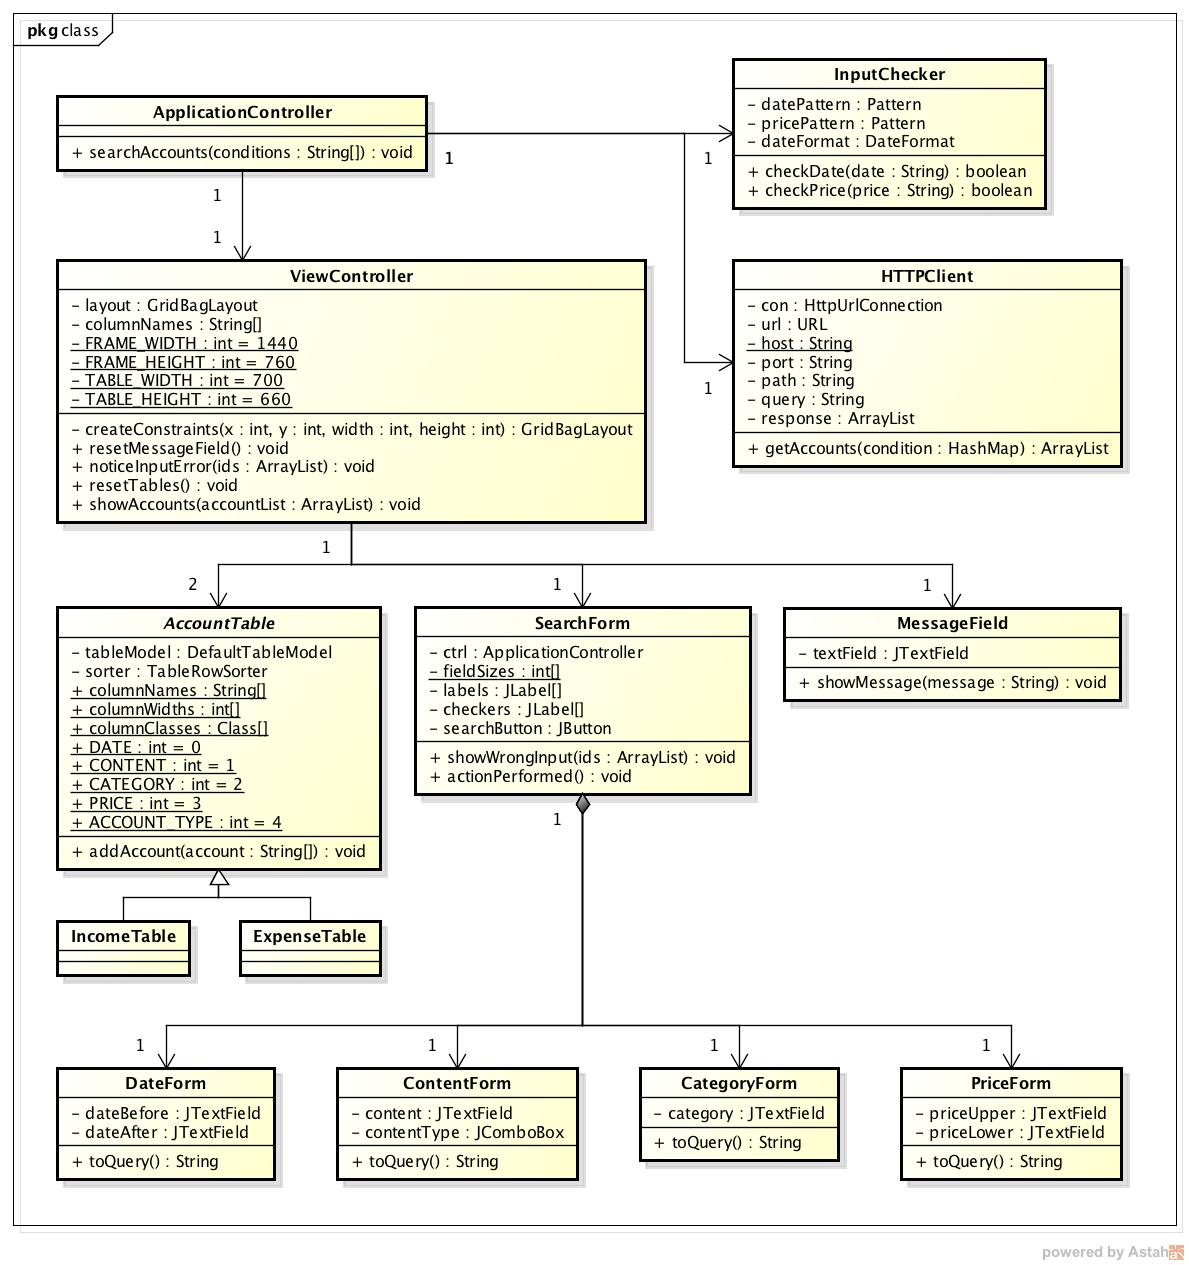
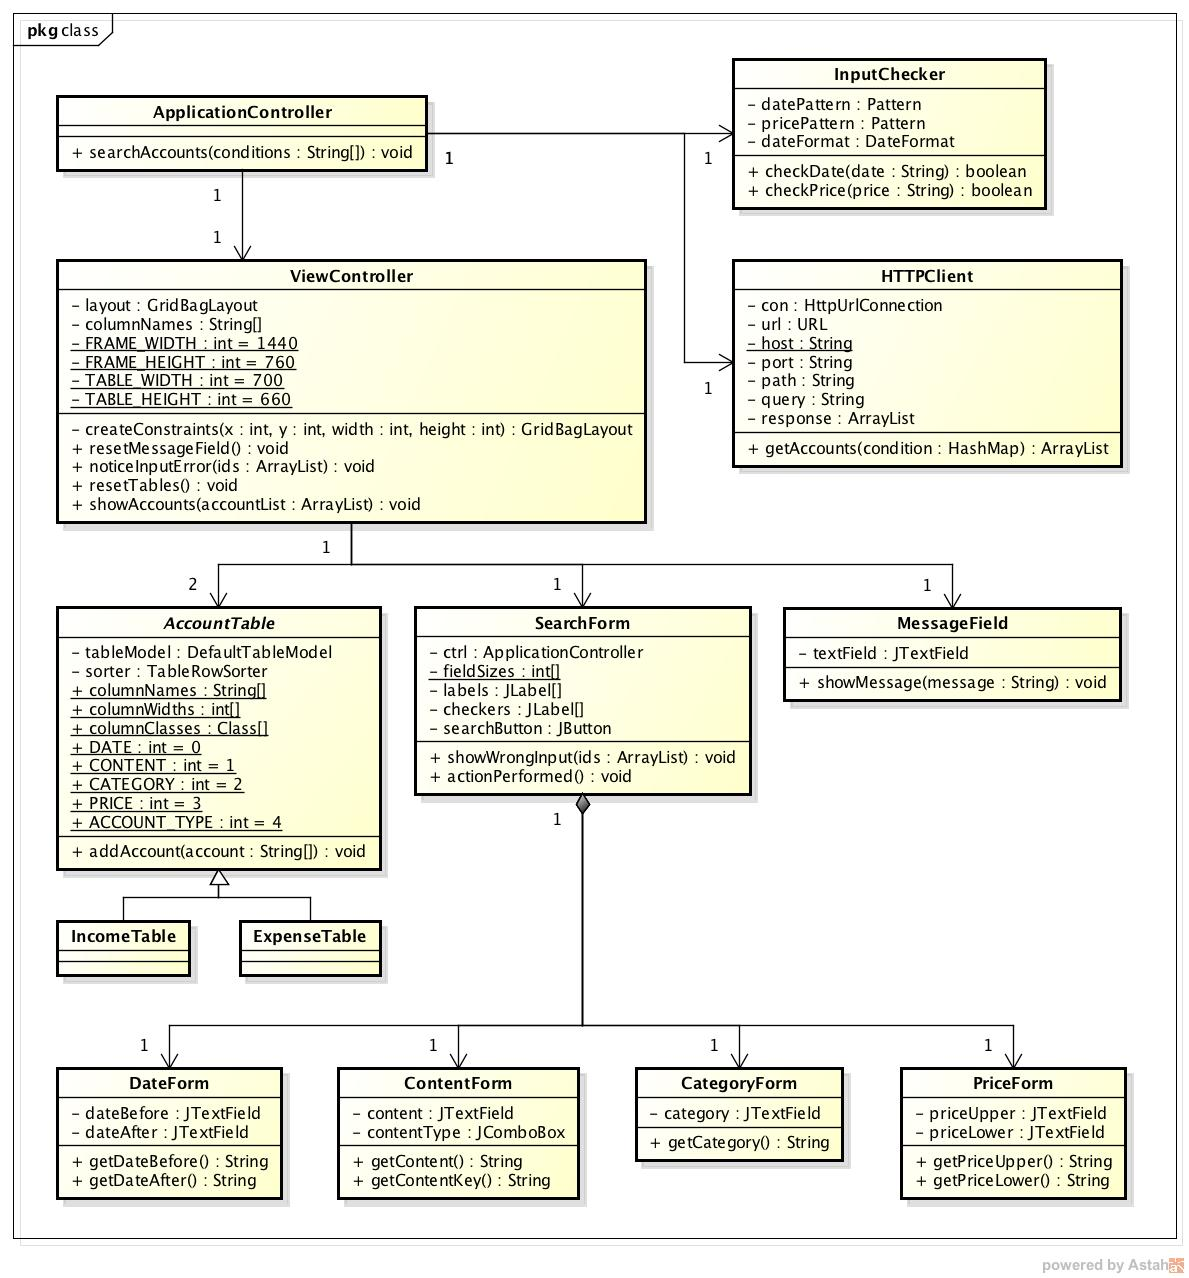
update design spec

Changed region(s): [[0.0311, 0.185, 0.9647, 0.9557], [0.0622, 0.0308, 0.9336, 0.4008], [0.0311, 0.0, 0.0934, 0.0308]]

diff --git a/zosma/sphinx/design_spec.rst b/zosma/sphinx/design_spec.rst
@@ -13,44 +13,70 @@
 
 .. image:: images/class.jpg
    :alt: クラス図
+   :align: center
 
 - MVCモデルを利用する
 
-- Model
+  - Model
 
-  - データベースに登録されている情報を表示するだけのモジュールであるためModelは存在しない
+    - データベースに登録されている情報を表示するだけのモジュールであるためModelは存在しない
 
-- View
+  - View
 
-  - AccountTable
+    - AccountTable
 
-    - 取得した家計簿を表示するテーブル
+      - 取得した家計簿を表示するテーブル
 
-  - SerachForm
+    - SerachForm
 
-    - 検索条件を入力するテキストフィールド
+      - 検索フォームを表すクラス
 
-  - MessageField
+        - DateForm
 
-    - エラー等を表示するテキストフィールド
+          - 日付に関する条件を入力するフォーム
+          - dateBefore: 指定した日付以前の家計簿を検索する
+          - dateAfter: 指定した日付以降の家計簿を検索する
+          - dateBefore, dateAfterとも指定した日付は検索対象に含まれる
 
-- Controller
+        - ContentForm
 
-  - ApplicationController
+          - 内容に関する条件を入力するフォーム
+          - content: 指定した内容の家計簿を検索する
+          - contentType: 全文一致か部分一致かを指定する
 
-    - アプリ全体を管理するコントローラー
+        - CategoryForm
 
-  - ViewController
+          - カテゴリに関する条件を入力するフォーム
+          - category: 指定したカテゴリに一致する家計簿を検索する
 
-    - ビューの各コンポーネントを管理するコントローラー
+        - PriceForm
 
-- InputChecker
+          - 金額に関する条件を入力するフォーム
+          - priceUpper: 指定した金額以上の家計簿を検索する
+          - priceLower: 指定した金額以下の家計簿を検索する
+          - priceUpper, priceLowerとも指定した金額は検索対象に含まれる
 
-  - 入力された条件のフォーマットが正しいかどうかをチェックするクラス
+    - MessageField
 
-- HTTPClient
+      - エラー等を表示するテキストフィールド
 
-  - DBサーバにリクエストを送信するクラス
+  - Controller
+
+    - ApplicationController
+
+      - アプリ全体を管理するコントローラー
+
+    - ViewController
+
+      - ビューの各コンポーネントを管理するコントローラー
+
+  - InputChecker
+
+    - 入力された条件のフォーマットが正しいかどうかをチェックするクラス
+
+  - HTTPClient
+
+    - DBサーバにリクエストを送信するクラス
 
 処理手順
 --------
@@ -64,15 +90,18 @@
 
 .. image:: images/seq_index.jpg
    :alt: シーケンス図(家計簿を検索する)
+   :align: center
 
 - 利用者が検索画面を開いてから家計簿を表示するまでの流れ
 
   1. 利用者が検索条件を入力して登録ボタンを押すと，actionPerformedメソッドが実行される
   2. 入力された条件を引数にして，searchAccountsメソッドが実行される
-  3. checkDateメソッドで日付のフォーマットのチェックを行う
-  4. checkPriceメソッドで金額のチェックを行う
-  5. 不正な条件があればMessageFieldにエラーを通知する文字列をセットする
-  6. さらに，SearchForm内の不正な入力があった項目に対応するラベルにチェックマークをセットする
-  7. 入力された条件に問題が無ければ，getAccountsメソッドを実行してリクエストを送信する
-  8. 取得した家計簿をテーブルに表示する
-  9. 取得した家計簿の数をMessageFieldに表示する
+  3. checkDateメソッドでDateFormのdateBeforeに格納されている値のフォーマットのチェックを行う
+  4. checkDateメソッドでDateFormのdateAfterに格納されている値のフォーマットのチェックを行う
+  5. checkPriceメソッドでPriceFormのpriceUpperに格納されている値のチェックを行う
+  6. checkPriceメソッドでPriceFormのpriceLowerに格納されている値のチェックを行う
+  7. 不正な条件があればMessageFieldにエラーを通知する文字列をセットする
+  8. さらに，SearchForm内の不正な入力があった項目に対応するラベルにチェックマークをセットする
+  9. 入力された条件に問題が無ければ，getAccountsメソッドを実行してリクエストを送信する
+  10. 取得した家計簿をテーブルに表示する
+  11. 取得した家計簿の数をMessageFieldに表示する
